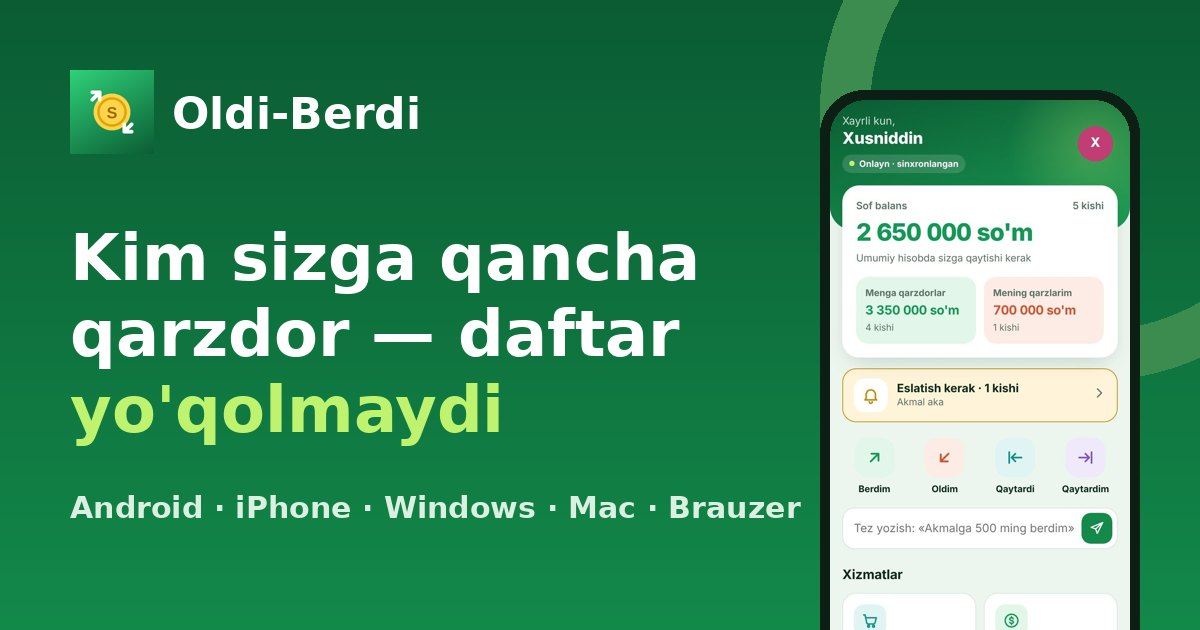
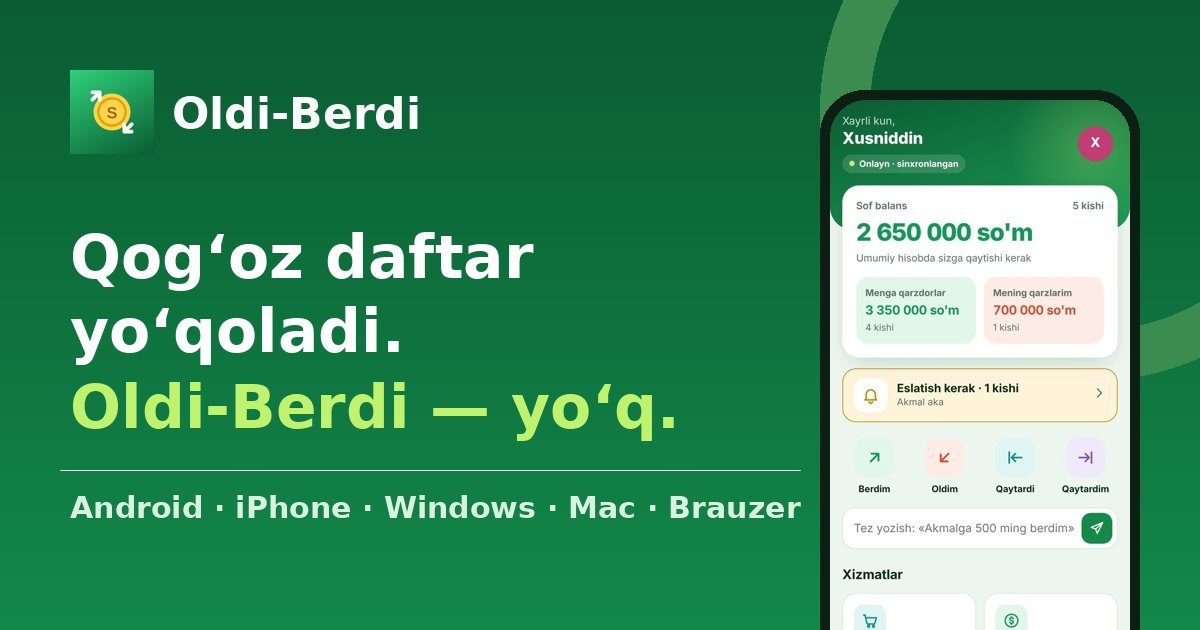
Sarlavha: Qog'oz daftar yo'qoladi. Oldi-Berdi — yo'q.
Claude-Session: https://claude.ai/code/session_01K59q45trC9kwngHFnrC4m2

Changed region(s): [[0.0617, 0.3619, 0.5858, 0.7238]]

diff --git a/index.html b/index.html
@@ -4,7 +4,7 @@
 <meta charset="utf-8">
 <meta name="viewport" content="width=device-width,initial-scale=1,viewport-fit=cover">
 <title>Oldi-Berdi — qarz daftari telefonda va kompyuterda</title>
-<meta name="description" content="Kim sizga qancha qarzdor — daftar yo'qolmaydi. Qarz, nasiya va to'lov muddatlarini telefonda, kompyuterda va brauzerda bitta akkaunt bilan yuriting. Bepul.">
+<meta name="description" content="Qog'oz daftar yo'qoladi, Oldi-Berdi — yo'q. Qarz, nasiya va to'lov muddatlarini telefonda, kompyuterda va brauzerda bitta akkaunt bilan yuriting. Bepul.">
 <meta name="theme-color" content="#0b5c33">
 <meta property="og:type" content="website">
 <meta property="og:title" content="Oldi-Berdi — qarz daftari telefonda va kompyuterda">
@@ -296,8 +296,8 @@ footer a:hover{color:var(--brand)}
  <div class="wrap">
   <div>
    <span class="pill"><b>Bepul</b>O‘zbekcha · ma’lumotlar internetda saqlanadi</span>
-   <h1>Kim sizga qancha qarzdor — <em>daftar yo‘qolmaydi</em></h1>
-   <p class="lead">Qarz, nasiya va to‘lov muddatlari bitta ilovada. Telefonda yozing — kompyuterda darhol ko‘ring. Bitta akkaunt, hamma qurilmada.</p>
+   <h1>Qog‘oz daftar yo‘qoladi. <em>Oldi-Berdi — yo‘q.</em></h1>
+   <p class="lead">Kim sizga qancha qarzdor — hammasi internetda saqlanadi. Qarz, nasiya va to‘lov muddatlari bitta ilovada. Telefonda yozing — kompyuterda darhol ko‘ring. Bitta akkaunt, hamma qurilmada.</p>
    <div class="cta">
     <a class="btn btn-primary" data-link="app">Bepul boshlash <svg><use href="#i-arrow"/></svg></a>
     <button class="btn btn-ghost" id="hero-dl"><svg><use href="#i-down"/></svg><span>Yuklab olish</span></button>
